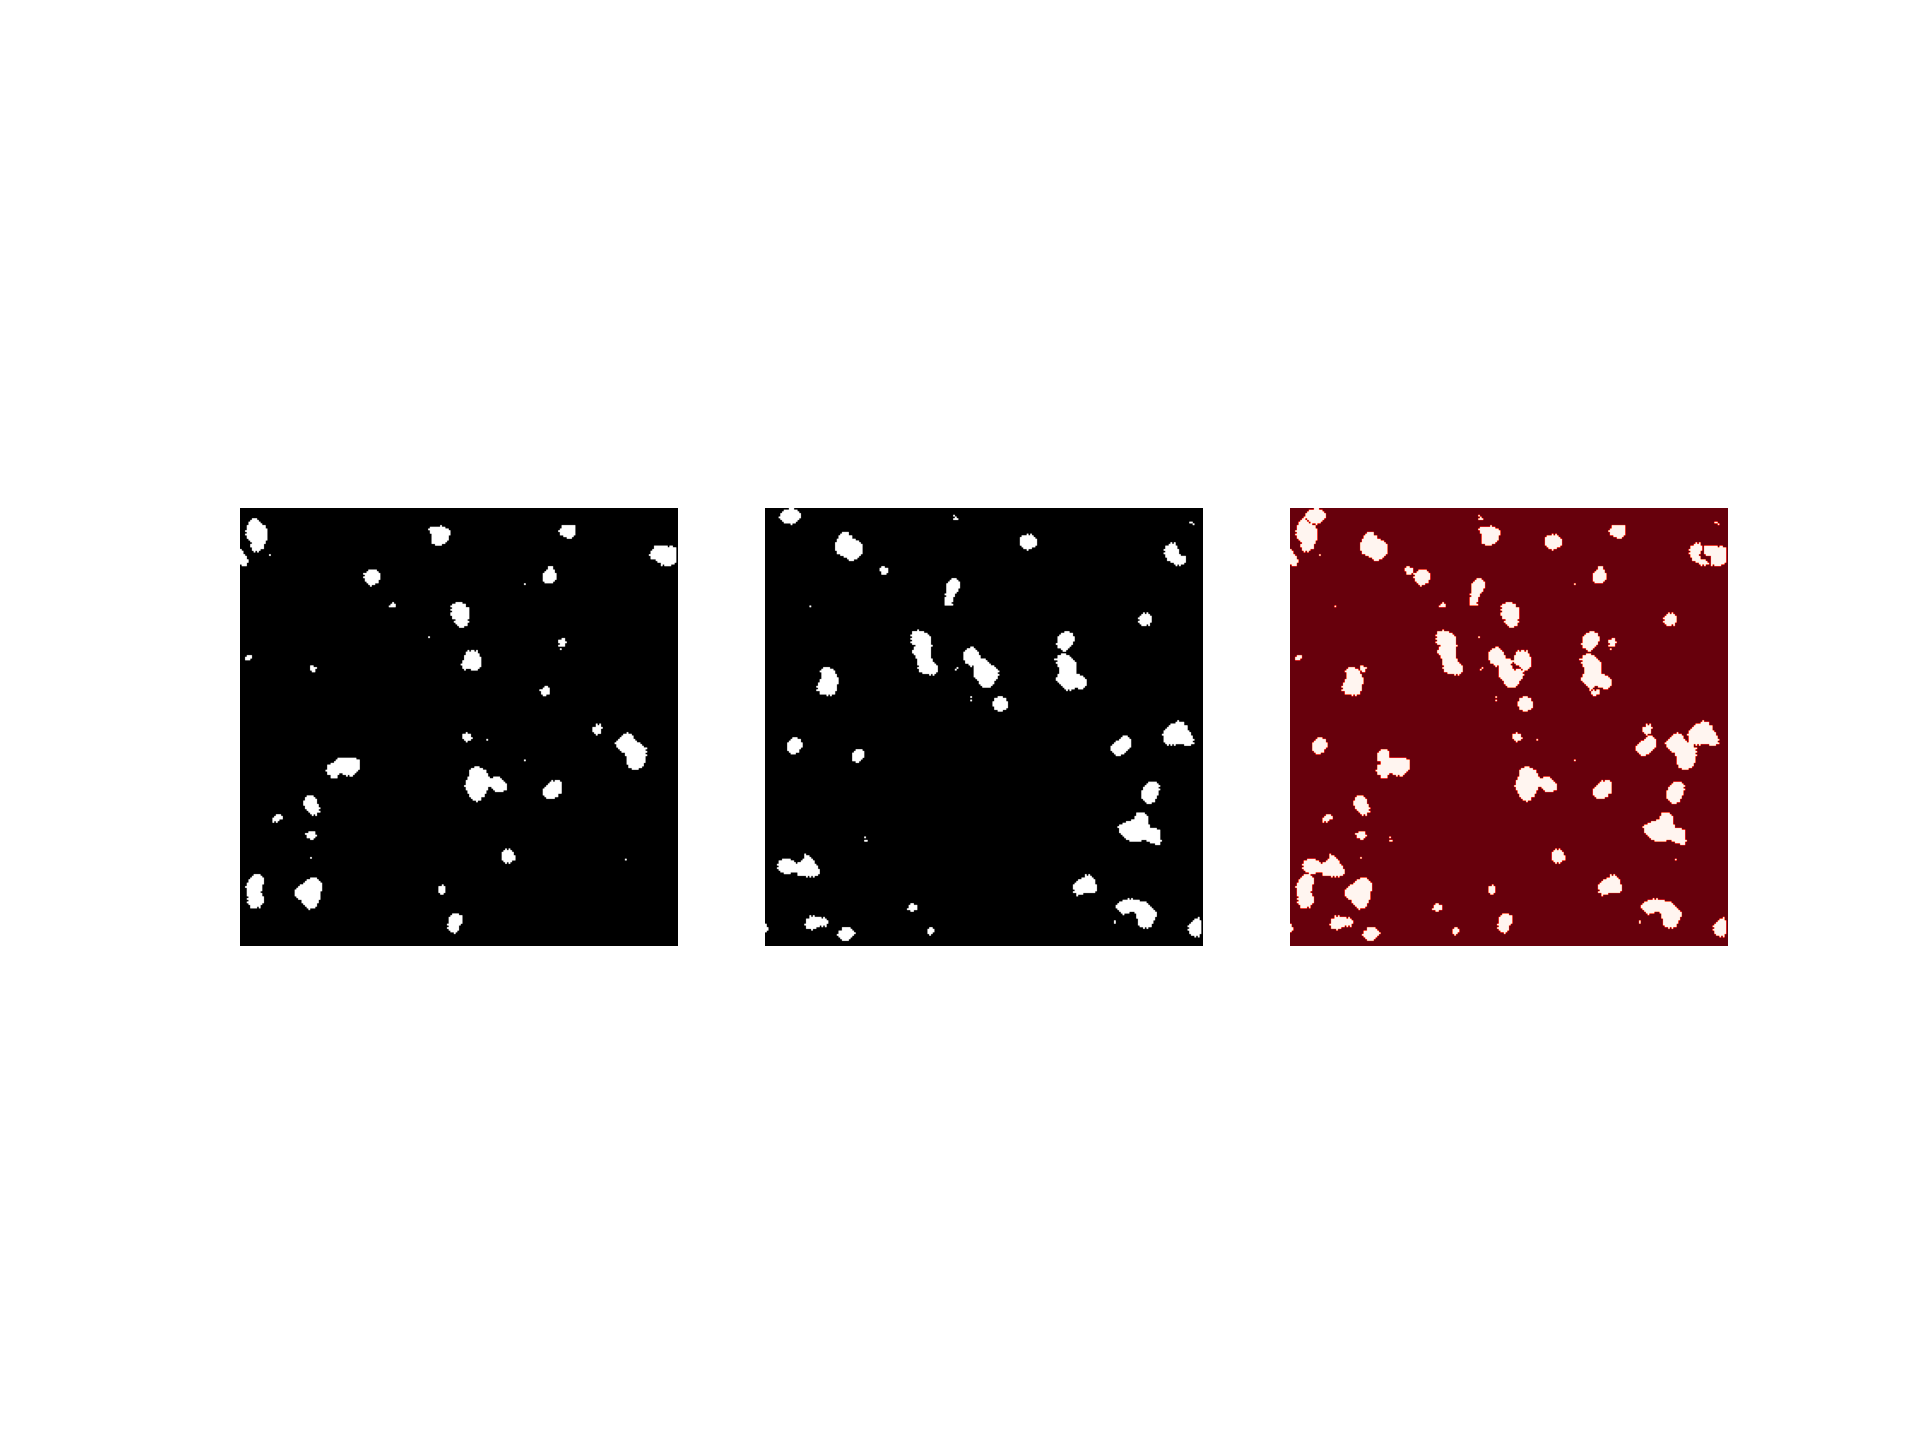
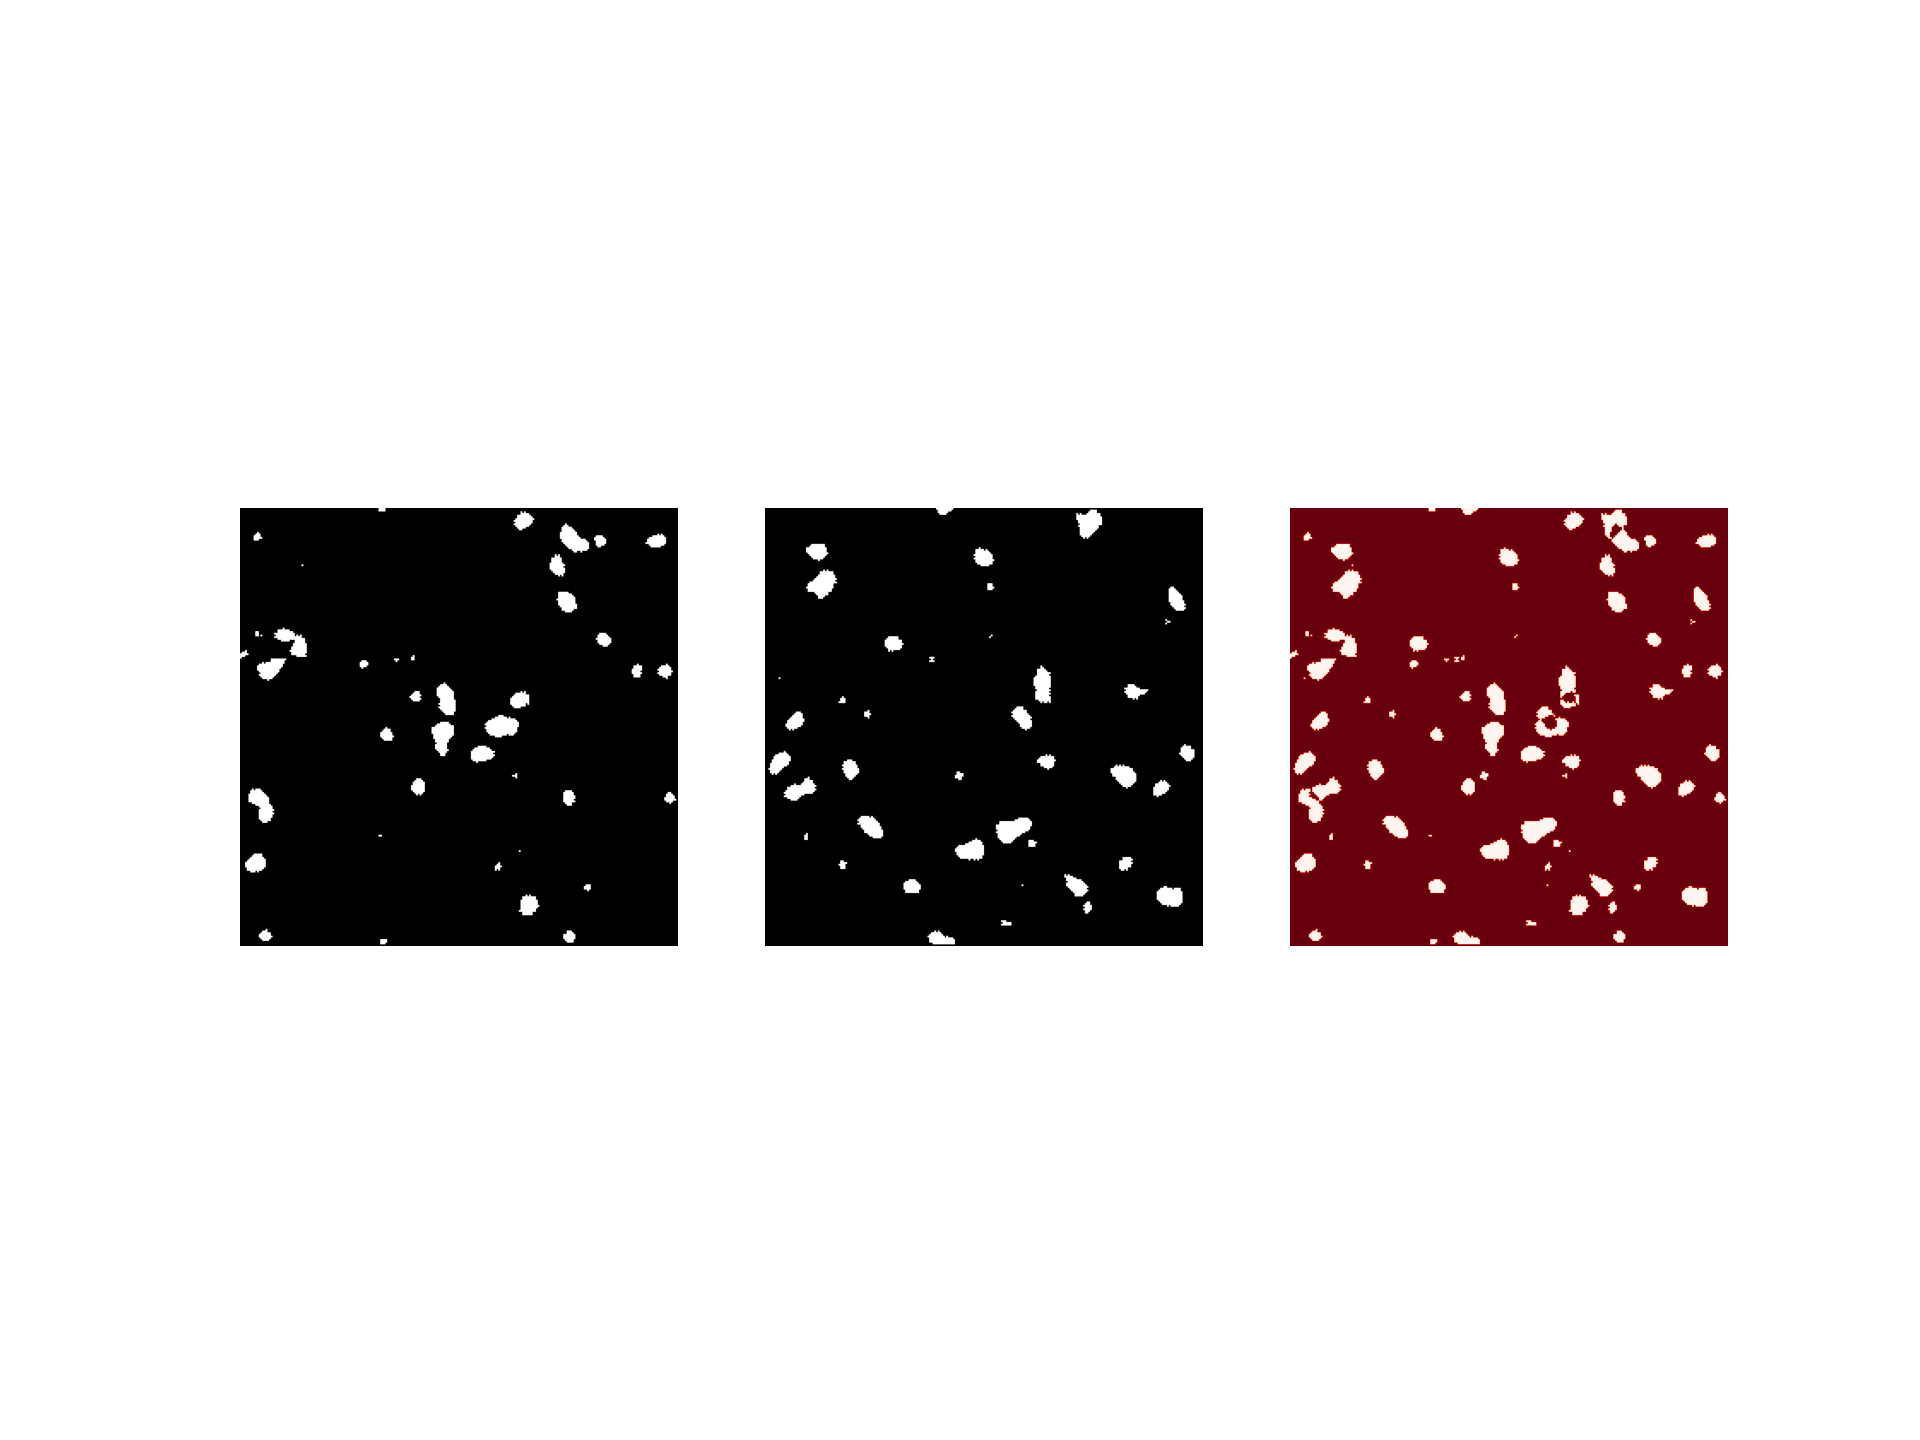
adding example plot code

diff --git a/lgn_test.py b/lgn_test.py
@@ -165,60 +165,60 @@ class LGN:
 # activity_differences = np.abs(generated_activity[0]-generated_activity[1])
 # # print(activity_differences)
 # ----------------------------------------
-# p_lin = np.linspace(0.0,0.5,5)
-# for a in p_lin:
-#     L = LGN(width=256, p=0.15, r=4, t=5, trans=a,
-#             make_wave=True, num_layers=2)
-
-#     generated_activity = L.make_img_mat()
-#     activity_differences = np.abs(generated_activity[0]-generated_activity[1])
-#     differences = np.abs(generated_activity[0]-generated_activity[1])
-#     fig, (layer_1, layer_2, diff) = plt.subplots(1, 3, sharex=True)
-    
-#     layer_1.axis("off")
-#     layer_2.axis("off")
-#     diff.axis("off")
-
-#     layer_1.imshow(generated_activity[0], cmap="Greys_r")
-#     layer_2.imshow(generated_activity[1], cmap="Greys_r")
-#     diff.imshow(activity_differences, cmap="Reds_r")
-    
-#     filename = "p_0.15-r_4.0-t_5.0_a_{}.png".format(a)
-
-#     plt.savefig(filename,dpi=300)
-
-#     plt.show()
-# ------------------------------------------
 p_lin = np.linspace(0.0,0.5,5)
-t_lin = np.linspace(3,8,6)
-print('p line' , p_lin)
-print('t line', t_lin)
-fig, subs = plt.subplots(6, 6, sharex=True)
-for idx_p, p in enumerate(p_lin):
-    for idx_t, t in enumerate(t_lin):
-        print('p = ',p,'t = ',t)
-        L =LGN(width=256, p=p, r=4, t=t, trans=0.5,
-                make_wave=True, num_layers=2)
+for a in p_lin:
+    L = LGN(width=256, p=0.15, r=4, t=5, trans=a,
+            make_wave=True, num_layers=2)
 
-        try:
-            generated_activity = L.make_img_mat()
-        except ValueError as err:
-            if (str(err) == "LGN: activity greater than high bound"):
-                generated_activity =  np.full((2,256, 256), 1.0)
-                generated_activity[0][0][0] = 0
+    generated_activity = L.make_img_mat()
+    activity_differences = np.abs(generated_activity[0]-generated_activity[1])
+    differences = np.abs(generated_activity[0]-generated_activity[1])
+    fig, (layer_1, layer_2, diff) = plt.subplots(1, 3, sharex=True)
+    
+    layer_1.axis("off")
+    layer_2.axis("off")
+    diff.axis("off")
+
+    layer_1.imshow(generated_activity[0], cmap="Greys_r")
+    layer_2.imshow(generated_activity[1], cmap="Greys_r")
+    diff.imshow(activity_differences, cmap="Reds_r")
+    
+    filename = "p_0.15-r_4.0-t_5.0_a_{}.png".format(a)
+
+    plt.savefig(filename,dpi=300)
+
+    plt.show()
+# ------------------------------------------
+# p_lin = np.linspace(0.0,0.5,5)
+# t_lin = np.linspace(3,8,6)
+# print('p line' , p_lin)
+# print('t line', t_lin)
+# fig, subs = plt.subplots(6, 6, sharex=True)
+# for idx_p, p in enumerate(p_lin):
+#     for idx_t, t in enumerate(t_lin):
+#         print('p = ',p,'t = ',t)
+#         L =LGN(width=256, p=p, r=4, t=t, trans=0.5,
+#                 make_wave=True, num_layers=2)
+
+#         try:
+#             generated_activity = L.make_img_mat()
+#         except ValueError as err:
+#             if (str(err) == "LGN: activity greater than high bound"):
+#                 generated_activity =  np.full((2,256, 256), 1.0)
+#                 generated_activity[0][0][0] = 0
 
 
-            else:
-                generated_activity =  np.full((2,256, 256), 0.0)
-                generated_activity[0][0][0] = 1
+#             else:
+#                 generated_activity =  np.full((2,256, 256), 0.0)
+#                 generated_activity[0][0][0] = 1
 
 
-        subs[idx_p][idx_t].axis("off")
-        subs[idx_p][idx_t].set_aspect(aspect=100)
+#         subs[idx_p][idx_t].axis("off")
+#         subs[idx_p][idx_t].set_aspect(aspect=100)
 
-        generated_activity = generated_activity[:,:,:-5]
-        subs[idx_p][idx_t].imshow(generated_activity[0], cmap="winter")
+#         generated_activity = generated_activity[:,:,:-5]
+#         subs[idx_p][idx_t].imshow(generated_activity[0], cmap="winter")
 
 
-filename = "lgn_pt_variance.png"
-plt.savefig(filename,dpi=300)
+# filename = "lgn_pt_variance.png"
+# plt.savefig(filename,dpi=300)

diff --git a/inter_plot_test.py b/inter_plot_test.py
@@ -1,0 +1,12 @@
+
+import numpy as np
+import matplotlib.pyplot as plt
+
+plt.axis([0, 10, 0, 1])
+
+for i in range(10):
+    y = np.random.random()
+    plt.scatter(i, y)
+    plt.pause(0.55)
+
+plt.show()
